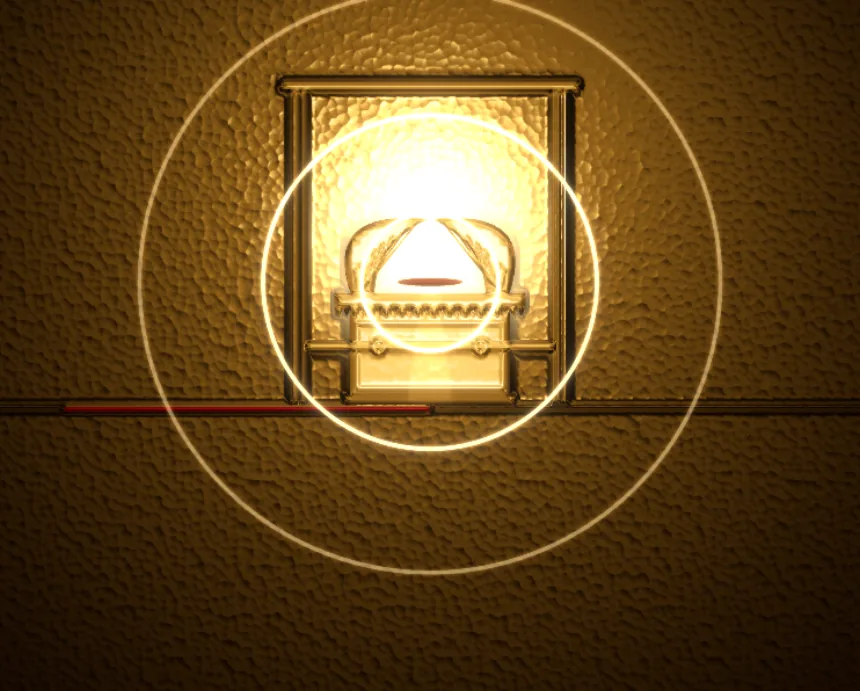
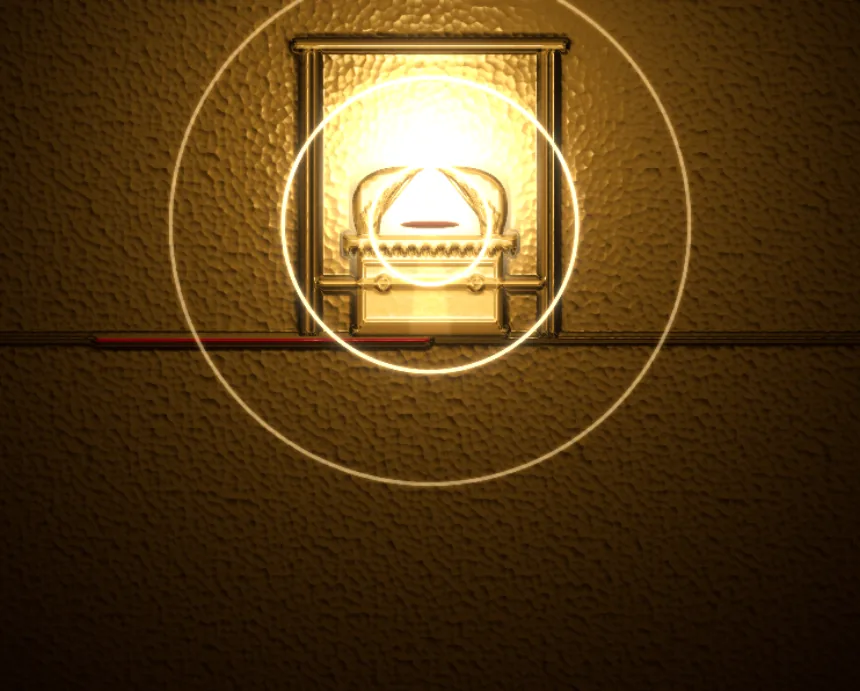
Keep Hebrews 9 art clear of three-line captions on phones
The iOS Simulator showed the verse label sitting on the figures in movement
V, because quotes wrap to three lines at phone width. Raises the floor of
the relief in mobile panels and re-renders the movement stills.

diff --git a/components/scenes/three/primitives/Beaten.tsx b/components/scenes/three/primitives/Beaten.tsx
@@ -31,6 +31,8 @@ export const BEATEN = {
 export type Frame = readonly [number, number, number, number];
 
 const DEFAULT_FRAME: Frame = [60, 30, 1480, 600];
+const SAFE_WIDE = [0.04, 0.7] as const;
+const SAFE_MOBILE = [0.04, 0.5] as const;
 const PAINT_STEP = 1 / 30;
 const MAX_ART = 1600;
 const TEXEL_UNIT = 0.64;
@@ -212,7 +214,7 @@ export function Plate({
   effects,
   hold,
   frame = DEFAULT_FRAME,
-  safe = [0.04, 0.7],
+  safe = mobile ? SAFE_MOBILE : SAFE_WIDE,
   reserve,
   lamp,
   pointer,

diff --git a/components/scenes/three/scenes/OnceForAllScene.tsx b/components/scenes/three/scenes/OnceForAllScene.tsx
@@ -52,7 +52,7 @@ export function OnceForAllScene({ mobile, effects }: SceneProps) {
       period={16}
       mobile={mobile}
       effects={effects}
-      safe={SAFE}
+      safe={mobile ? undefined : SAFE}
       lamp={lamp}
     />
   );
